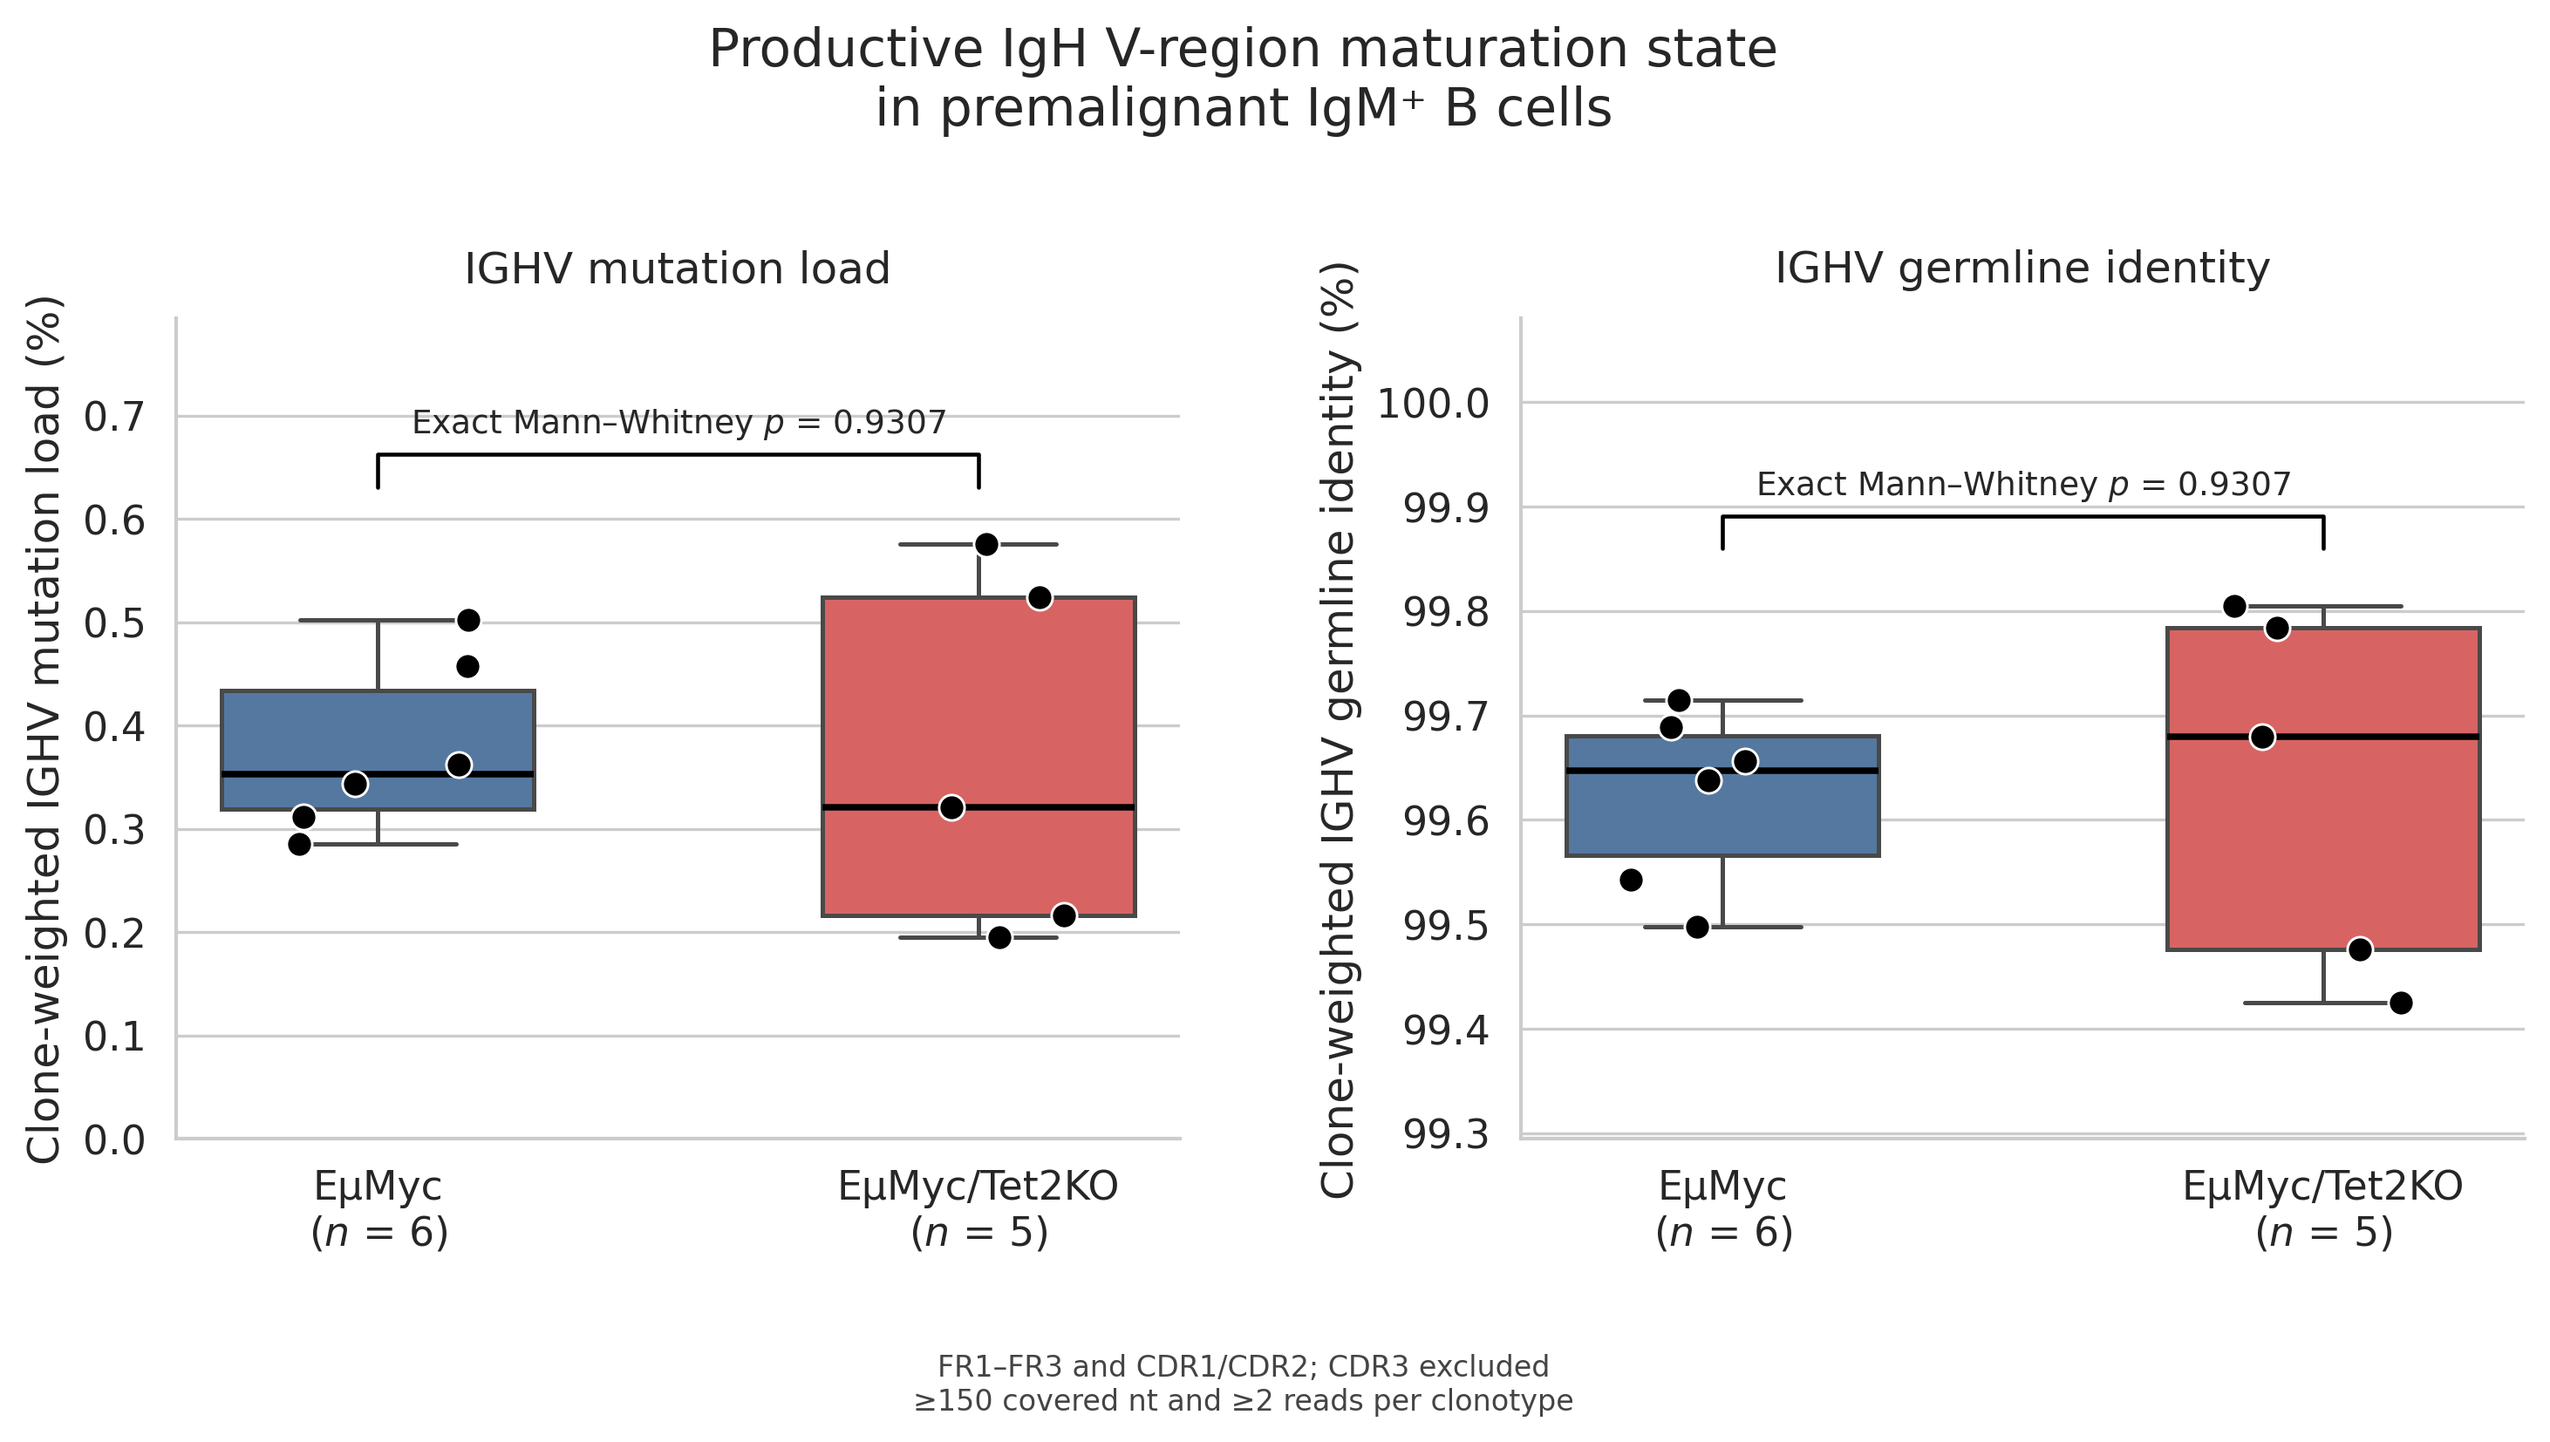
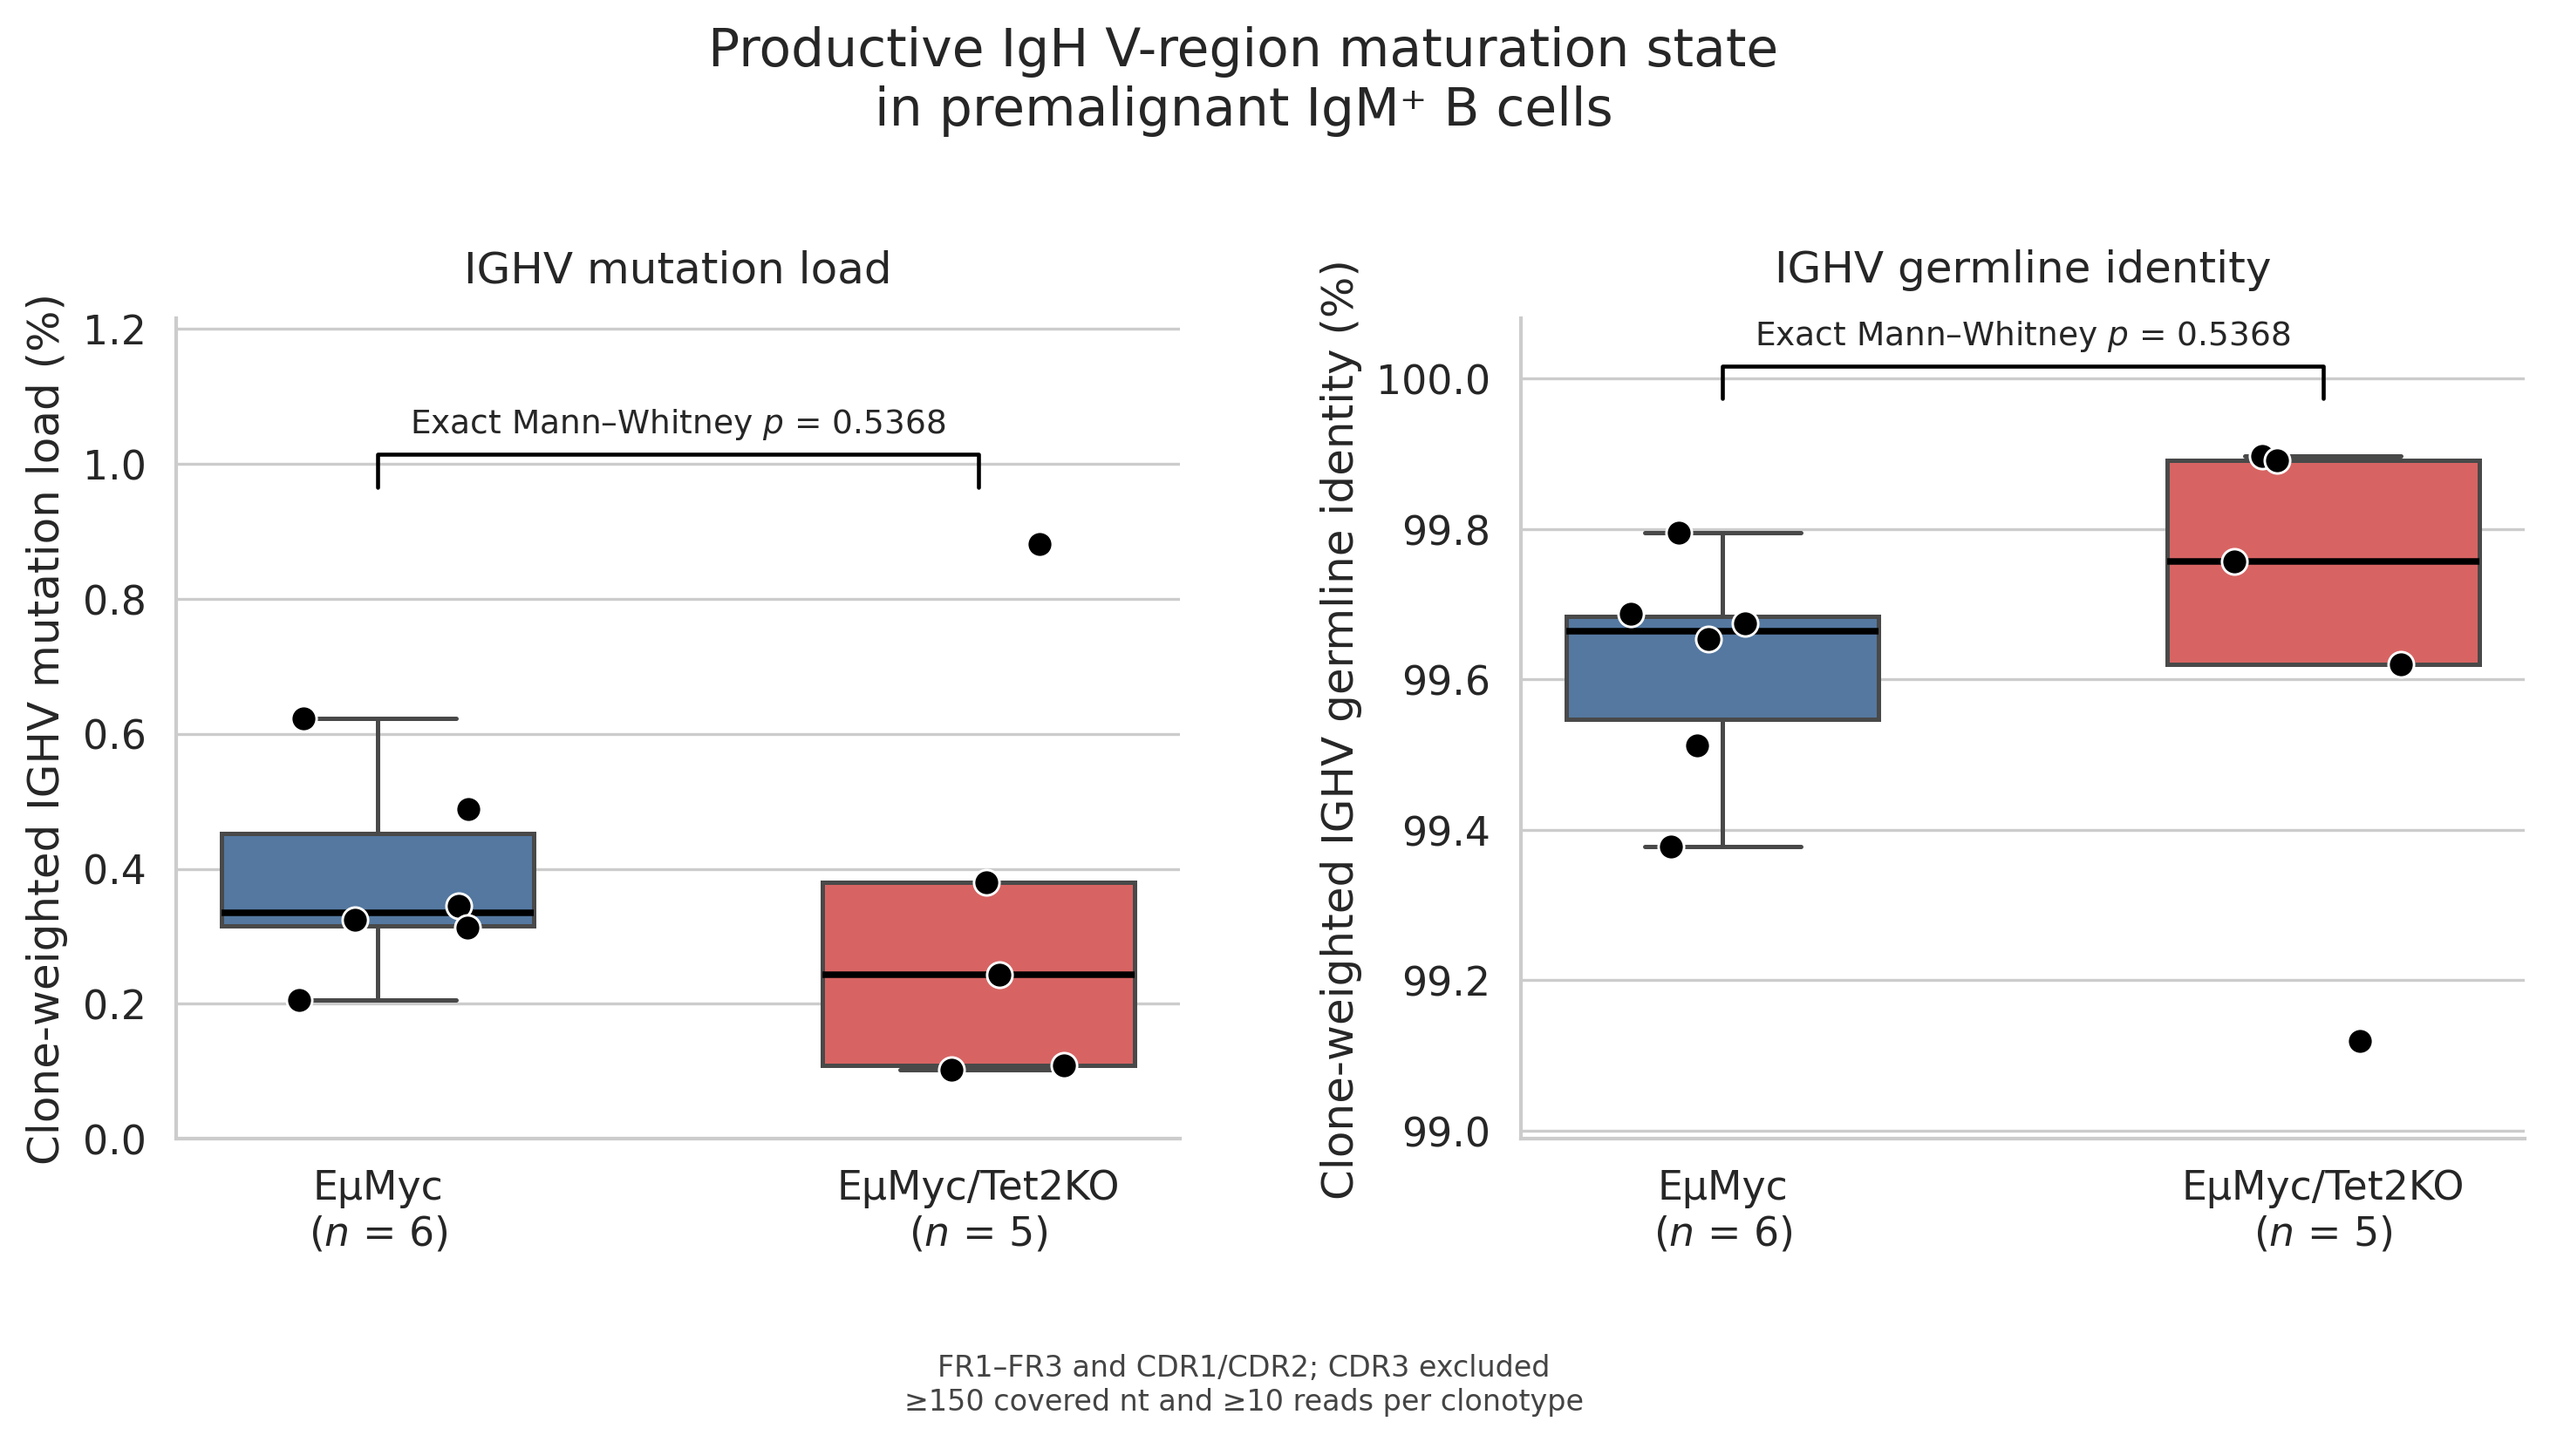
Adapt mutational load plot

diff --git a/beatit_paper/plot_productive_ighv_mutational_load.py b/beatit_paper/plot_productive_ighv_mutational_load.py
@@ -20,7 +20,7 @@ GROUPS = {
     "EµMyc/Tet2KO": ["C1", "C5", "C7", "C9", "C11"],
 }
 COLORS = {"EµMyc": "#4C78A8", "EµMyc/Tet2KO": "#E45756"}
-MIN_BASES, MIN_READS = 150, 2
+MIN_BASES, MIN_READS = 150, 10
 
 
 def load_sample(sample, genotype):
